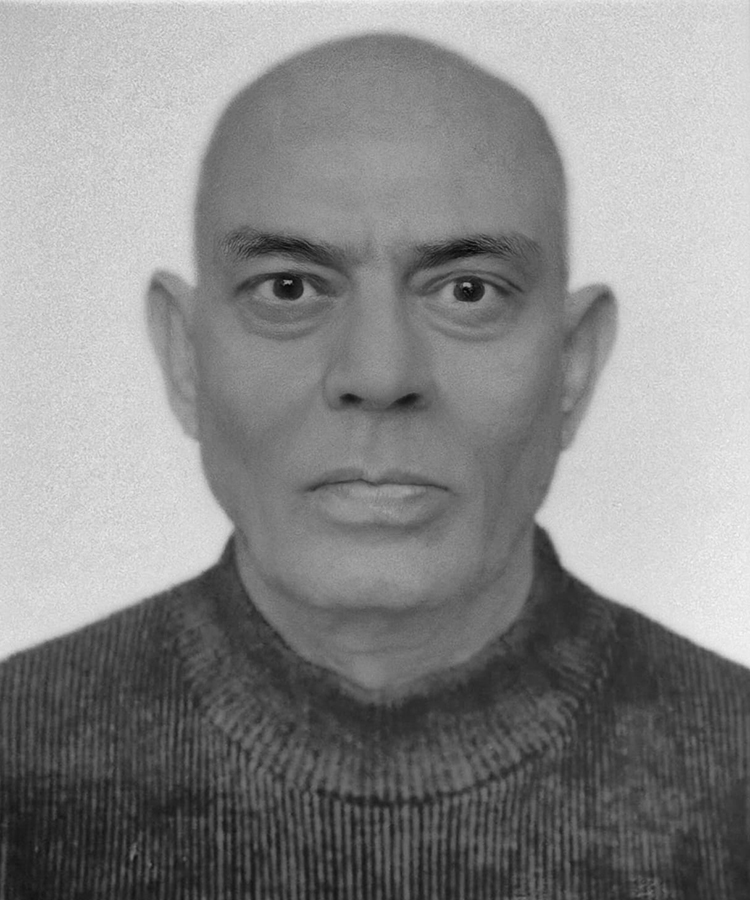
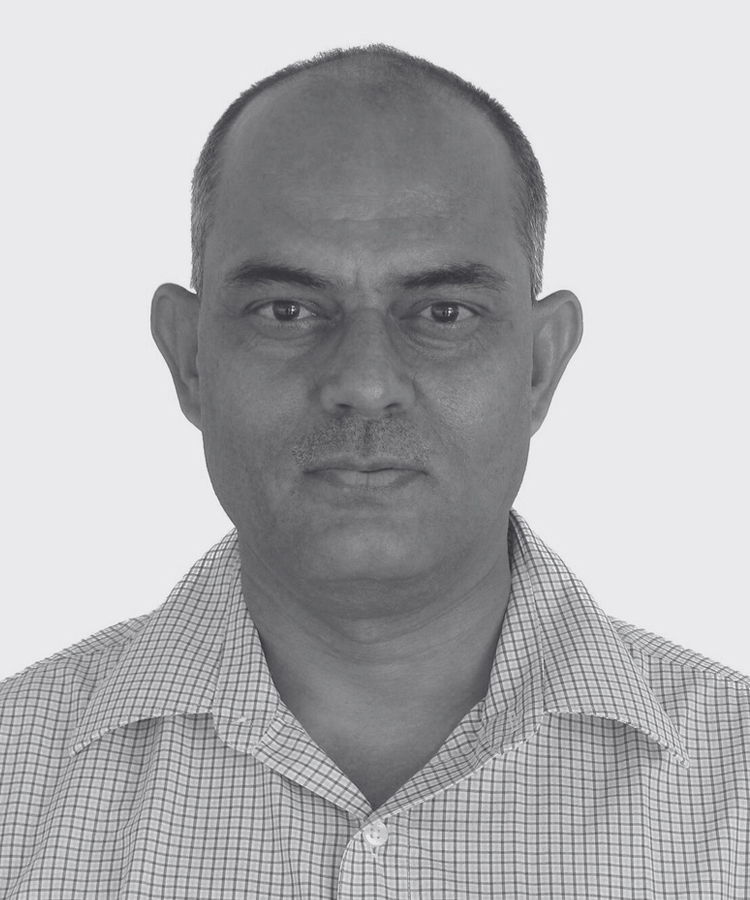
Team Page Changes

diff --git a/src/components/TeamMembers.tsx b/src/components/TeamMembers.tsx
@@ -10,12 +10,22 @@ type Member = {
   img: string;
 };
 
-const members: Member[] = [
+// A grid cell either holds the index of a member (drawn from the arrays
+// below) or is `null`, meaning the cell is intentionally left empty.
+// Leaving cells empty (rather than shifting items) is what gives the
+// 4-column grid its scattered, non-uniform read while every row/column
+// stays the same size — matching the ario.law reference layout.
+type LayoutCell = number | null;
+
+const wayFinders: Member[] = [
   { name: "Arun Prasad", role: "Managing Director", focus: "M.D.", img: "/images/team/arun-prasad.jpg" },
   { name: "Malini", role: "Chief Executive Officer", focus: "C.E.O. · Customer Fulfillment", img: "/images/team/malini.jpg" },
   { name: "Radhakrishnan", role: "General Manager", focus: "G.M.", img: "/images/team/radhakrishnan.jpg" },
   { name: "Devidasan", role: "Quality Control", focus: "Q.C.", img: "/images/team/devidasan.jpg" },
   { name: "Ratan", role: "Vice President", focus: "V.P.", img: "/images/team/ratan.jpg" },
+];
+
+const responsibilityLeads: Member[] = [
   { name: "Anju", role: "Aesthetics", focus: "Visual coherence · Colour / Design harmony · Tidiness", img: "/images/team/anju.jpg" },
   { name: "Tony", role: "Safety & Administration", focus: "Infrastructure & Facility Management · Legislative Compliance · People & Workplace Management · Procurement - Admin", img: "/images/team/tony.jpg" },
   { name: "Rajesh", role: "L & D", focus: "Onboarding & Skilling · Skill Evaluation & Monitoring · Re-skilling & Upskilling", img: "/images/team/rajesh.jpg" },
@@ -33,103 +43,241 @@ const members: Member[] = [
   { name: "Ribin", role: "M.I.S.", focus: "E.R.P.", img: "/images/team/ribin.jpg" },
 ];
 
+// 4-column layouts, row by row. `null` = deliberately empty cell.
+const RESPONSIBILITY_LAYOUT: LayoutCell[][] = [
+  [0, null, 1, 2],
+  [null, 3, null, null],
+  [4, 5, null, 6],
+  [null, null, 7, null],
+  [8, 9, null, 10],
+  [null, 11, 12, null],
+  [13, null, 14, null],
+];
+
+const WAYFINDER_LAYOUT: LayoutCell[][] = [
+  [0, null, 1, null],
+  [null, 2, null, 3],
+  [4, null, null, null],
+];
+
+function SectionHeader({
+  eyebrow,
+  title,
+  paragraph,
+}: {
+  eyebrow: string;
+  title: string;
+  paragraph: string;
+}) {
+  return (
+    <div className="max-w-[1440px] mx-auto w-full px-6 md:px-16 flex flex-col items-center mb-14 md:mb-16">
+      <span className="sub-heading block mb-3 select-none text-center">
+        {eyebrow}
+      </span>
+      <h2 className="big-heading text-center mb-6 max-w-[1200px] select-none">
+        {title}
+      </h2>
+      <div className="w-full max-w-[800px] grid grid-cols-1 md:grid-cols-12 gap-4">
+        <div className="md:col-span-6" />
+        <div className="md:col-span-6">
+          <p className="body-large select-none">{paragraph}</p>
+        </div>
+      </div>
+    </div>
+  );
+}
+
+function FeaturedCard({ member }: { member: Member }) {
+  return (
+    <div className="relative hidden aspect-[3/4.4] w-full max-w-[420px] overflow-hidden rounded-2xl shadow-lg lg:block">
+      <AnimatePresence mode="wait">
+        <motion.img
+          key={member.img}
+          src={member.img}
+          alt={member.name}
+          initial={{ opacity: 0, scale: 1.04 }}
+          animate={{ opacity: 1, scale: 1 }}
+          exit={{ opacity: 0 }}
+          transition={{ duration: 0.5, ease: "easeOut" }}
+          className="absolute inset-0 h-full w-full object-cover"
+        />
+      </AnimatePresence>
+      <div className="pointer-events-none absolute inset-0 bg-gradient-to-t from-black/70 via-black/10 to-transparent" />
+
+      <div className="absolute inset-x-0 bottom-0 flex flex-col gap-3 p-6">
+        <h3 className="sub-heading text-white select-none">{member.name}</h3>
+        <div className="flex items-start gap-4 border-t border-white/20 pt-3">
+          <p className="body-small flex-1 text-white/90">{member.role}</p>
+          <p className="body-small flex-1 text-right text-white/70">
+            {member.focus}
+          </p>
+        </div>
+      </div>
+    </div>
+  );
+}
+
+function TeamThumb({
+  member,
+  isActive,
+  onSelect,
+  alwaysShowCaption,
+}: {
+  member: Member;
+  isActive: boolean;
+  onSelect: () => void;
+  alwaysShowCaption?: boolean;
+}) {
+  return (
+    <button
+      type="button"
+      onMouseEnter={onSelect}
+      onFocus={onSelect}
+      onClick={onSelect}
+      className={`group relative aspect-[3/4] w-full overflow-hidden rounded-xl outline-none transition-[box-shadow] duration-300 ${
+        isActive ? "ring-2 ring-brand-dark" : ""
+      }`}
+    >
+      <img
+        src={member.img}
+        alt={member.name}
+        className="h-full w-full object-cover transition-transform duration-500 group-hover:scale-105"
+      />
+      <div
+        className={`pointer-events-none absolute inset-0 bg-gradient-to-t from-black/75 via-black/0 to-transparent transition-opacity duration-300 ${
+          alwaysShowCaption ? "opacity-100" : "opacity-0 group-hover:opacity-100"
+        }`}
+      />
+      <span
+        className={`absolute inset-x-2 bottom-2 text-left text-[11px] leading-tight text-white transition-all duration-300 sm:text-xs ${
+          alwaysShowCaption
+            ? "translate-y-0 opacity-100"
+            : "translate-y-2 opacity-0 group-hover:translate-y-0 group-hover:opacity-100"
+        }`}
+      >
+        <span className="block truncate font-medium drop-shadow-sm">
+          {member.name}
+        </span>
+        <span className="hidden truncate text-white/80 lg:block">
+          {member.role}
+        </span>
+      </span>
+    </button>
+  );
+}
+
+function TeamGrid({
+  members,
+  layout,
+  active,
+  onSelect,
+}: {
+  members: Member[];
+  layout: LayoutCell[][];
+  active: number;
+  onSelect: (idx: number) => void;
+}) {
+  return (
+    <>
+      {/* Mobile / tablet: dense grid, every member visible */}
+      <div className="grid grid-cols-3 gap-3 sm:grid-cols-4 md:gap-4 lg:hidden">
+        {members.map((member, idx) => (
+          <TeamThumb
+            key={member.name}
+            member={member}
+            isActive={active === idx}
+            onSelect={() => onSelect(idx)}
+            alwaysShowCaption
+          />
+        ))}
+      </div>
+
+      {/* Desktop: uniform 4-column / row grid with some cells left
+          empty, so the grid itself stays regular but the arrangement
+          reads as scattered. */}
+      <div className="hidden lg:grid lg:grid-cols-4 lg:gap-6">
+        {layout.flatMap((row, rowIdx) =>
+          row.map((cell, colIdx) =>
+            cell === null ? (
+              <div key={`gap-${rowIdx}-${colIdx}`} aria-hidden="true" className="aspect-[3/4]" />
+            ) : (
+              <TeamThumb
+                key={members[cell].name}
+                member={members[cell]}
+                isActive={active === cell}
+                onSelect={() => onSelect(cell)}
+              />
+            )
+          )
+        )}
+      </div>
+    </>
+  );
+}
+
 export default function TeamMembers() {
-  const [active, setActive] = useState(0);
-  const current = members[active];
+  const [activeLead, setActiveLead] = useState(0);
+  const [activeWayFinder, setActiveWayFinder] = useState(0);
 
   return (
-    <section
-      id="members"
-      className="relative z-30 w-full bg-white py-20 md:py-28"
-    >
-      {/* Header copy (matches Why Wilton section styling) */}
-      <div className="max-w-[1440px] mx-auto w-full px-6 md:px-16 flex flex-col items-center mb-16 md:mb-20">
-        <span className="sub-heading block mb-3 select-none text-center">
-          Leadership
-        </span>
-        <h2 className="big-heading text-center mb-6 max-w-[1200px] select-none">
-          The people behind every weave.
-        </h2>
-        {/* Paragraph offset to the right side of the container */}
-        <div className="w-full max-w-[800px] grid grid-cols-1 md:grid-cols-12 gap-4">
-          <div className="md:col-span-6" />
-          <div className="md:col-span-6">
-            <p className="body-large select-none">
-              Twenty leaders across the shop floor and the boardroom, each
-              accountable for a distinct thread of Wilton&apos;s craft.
-            </p>
-          </div>
-        </div>
-      </div>
+    <>
+      {/* Responsibility Lead — image left, member grid right */}
+      <section
+        id="responsibility-leads"
+        className="relative z-30 w-full bg-white py-20 md:py-28"
+      >
+        <SectionHeader
+          eyebrow="Responsibility Lead"
+          title="The department heads driving daily craft."
+          paragraph="Fifteen leads, each accountable for a distinct discipline — from aesthetics to purchase, quality to IT."
+        />
 
-      <div className="mx-auto flex w-full max-w-[1440px] flex-col gap-12 px-6 md:px-16 lg:flex-row lg:gap-16">
-        {/* Left column: sticky featured card */}
-        <div className="shrink-0 lg:w-[34%]">
-          <div className="lg:sticky lg:top-28">
-            {/* Featured card (desktop) */}
-            <div className="relative hidden aspect-[3/4.4] w-full max-w-[420px] overflow-hidden rounded-2xl shadow-lg lg:block">
-              <AnimatePresence mode="wait">
-                <motion.img
-                  key={current.img}
-                  src={current.img}
-                  alt={current.name}
-                  initial={{ opacity: 0, scale: 1.04 }}
-                  animate={{ opacity: 1, scale: 1 }}
-                  exit={{ opacity: 0 }}
-                  transition={{ duration: 0.5, ease: "easeOut" }}
-                  className="absolute inset-0 h-full w-full object-cover"
-                />
-              </AnimatePresence>
-              <div className="pointer-events-none absolute inset-0 bg-gradient-to-t from-black/70 via-black/10 to-transparent" />
-
-              <div className="absolute inset-x-0 bottom-0 flex flex-col gap-3 p-6">
-                <h3 className="sub-heading text-white select-none">
-                  {current.name}
-                </h3>
-                <div className="flex items-start gap-4 border-t border-white/20 pt-3">
-                  <p className="body-small flex-1 text-white/90">{current.role}</p>
-                  <p className="body-small flex-1 text-right text-white/70">
-                    {current.focus}
-                  </p>
-                </div>
-              </div>
+        <div className="mx-auto flex w-full max-w-[1440px] flex-col gap-12 px-6 md:px-16 lg:flex-row lg:gap-16">
+          <div className="shrink-0 lg:w-[34%]">
+            <div className="lg:sticky lg:top-28">
+              <FeaturedCard member={responsibilityLeads[activeLead]} />
             </div>
           </div>
-        </div>
 
-        {/* Right column: interactive grid */}
-        <div className="flex-1">
-          <div className="grid grid-cols-3 gap-3 sm:grid-cols-4 md:gap-4 lg:grid-cols-5">
-            {members.map((member, idx) => (
-              <button
-                key={member.name}
-                type="button"
-                onMouseEnter={() => setActive(idx)}
-                onFocus={() => setActive(idx)}
-                onClick={() => setActive(idx)}
-                className={`group relative aspect-[3/4] overflow-hidden rounded-xl outline-none transition-[box-shadow] duration-300 ${
-                  active === idx ? "ring-2 ring-brand-dark" : ""
-                }`}
-              >
-                <img
-                  src={member.img}
-                  alt={member.name}
-                  className="h-full w-full object-cover transition-transform duration-500 group-hover:scale-105"
-                />
-                <div className="pointer-events-none absolute inset-0 bg-gradient-to-t from-black/75 via-black/0 to-transparent opacity-0 transition-opacity duration-300 group-hover:opacity-100 lg:opacity-0" />
-                <span className="absolute inset-x-2 bottom-2 translate-y-2 text-left text-[11px] leading-tight text-white opacity-100 transition-all duration-300 sm:text-xs lg:opacity-0 lg:group-hover:translate-y-0 lg:group-hover:opacity-100">
-                  <span className="block truncate font-medium lg:drop-shadow-sm">
-                    {member.name}
-                  </span>
-                  <span className="hidden truncate text-white/80 lg:block">
-                    {member.role}
-                  </span>
-                </span>
-              </button>
-            ))}
+          <div className="flex-1">
+            <TeamGrid
+              members={responsibilityLeads}
+              layout={RESPONSIBILITY_LAYOUT}
+              active={activeLead}
+              onSelect={setActiveLead}
+            />
           </div>
         </div>
-      </div>
-    </section>
+      </section>
+
+      {/* Way Finders — member grid left, image right */}
+      <section
+        id="way-finders"
+        className="relative z-30 w-full bg-white py-20 md:py-28"
+      >
+        <SectionHeader
+          eyebrow="Way Finders"
+          title="The leadership charting Wilton's course."
+          paragraph="Five leaders steering strategy, governance and growth across the business."
+        />
+
+        <div className="mx-auto flex w-full max-w-[1440px] flex-col gap-12 px-6 md:px-16 lg:flex-row-reverse lg:gap-16">
+          <div className="shrink-0 lg:w-[34%]">
+            <div className="lg:sticky lg:top-28">
+              <FeaturedCard member={wayFinders[activeWayFinder]} />
+            </div>
+          </div>
+
+          <div className="flex-1">
+            <TeamGrid
+              members={wayFinders}
+              layout={WAYFINDER_LAYOUT}
+              active={activeWayFinder}
+              onSelect={setActiveWayFinder}
+            />
+          </div>
+        </div>
+      </section>
+    </>
   );
 }
